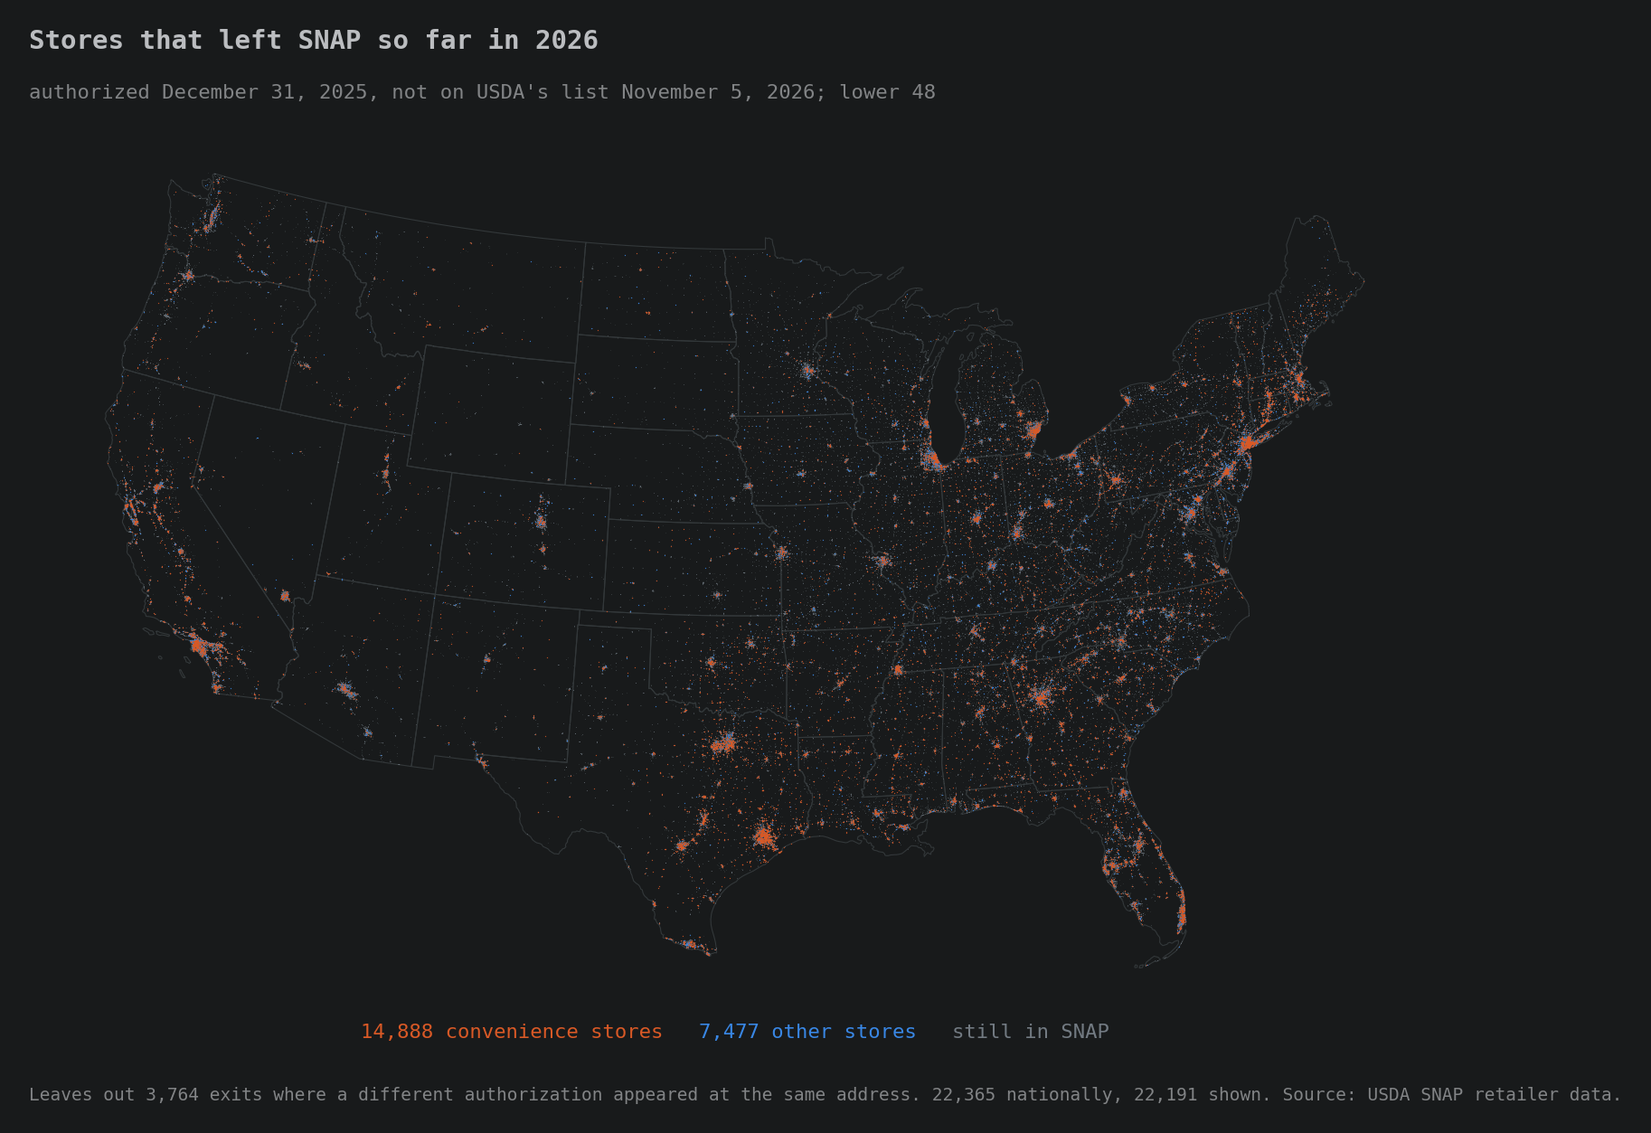
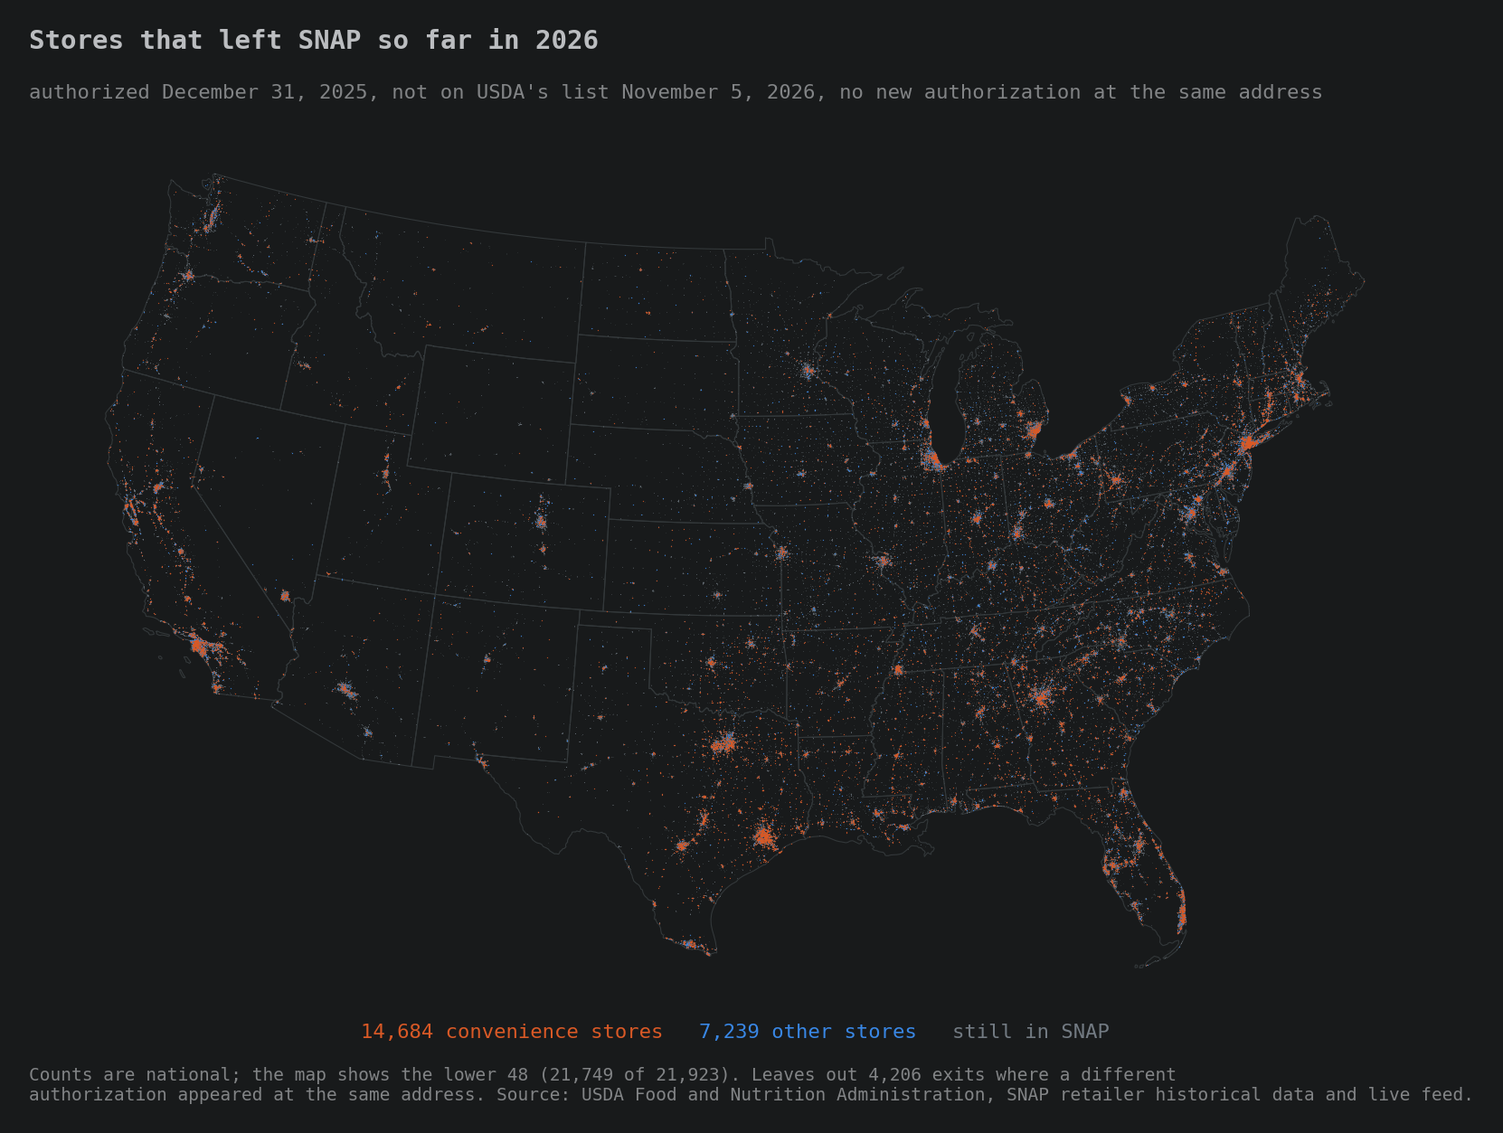
map: fix the ZIP leading-zero bug and the never-shown count found by the independent tie-out

diff --git a/web/index.html b/web/index.html
@@ -130,19 +130,20 @@
       <p class="note">
         A store appears in a year if it was authorized on <strong>Dec 31</strong> of that
         year. <span id="nShort">—</span> stores (<span id="pctShort">—</span>) opened and
-        closed between Dec 31sts and never appear. Stores without coordinates are excluded.
+        closed between two Dec 31sts and never appear. Stores without usable coordinates
+        are excluded.
       </p>
       <p class="note" id="liveNote" hidden>
         The last step, <strong data-live="label">—</strong>, is USDA's live retailer
         list as it stood that day, not a Dec 31 count. Stores already in the
         historical file keep their format there. The <span data-live="only">—</span>
-        stores that are new since then carry USDA's broader live types, so some
+        stores that are not in the historical file carry USDA's broader live types, so some
         groceries and specialty stores show as "size not given" or "type not
         given". Restaurant Meals Program sites and farmers-market entries that the
         historical file has never carried are left out.
       </p>
-      <p class="note">Source: USDA SNAP Retailer Locator Historical Data, 2005–2025,
-        and USDA's live SNAP retailer locator feed.</p>
+      <p class="note">Source: USDA Food and Nutrition Administration, SNAP Retailer
+        Locator Historical Data, 2005–2025, and the live SNAP retailer locator feed.</p>
     </details>
   </footer>
 

diff --git a/src/tieout_live.py b/src/tieout_live.py
@@ -26,17 +26,22 @@ ROWS = []
 WORDS = [
     ("Static map title: \"Stores that left SNAP so far in 2026\"",
      "Exit test in DATASETS.md, Dec 31, 2025 to Nov 5, 2026", "supported"),
-    ("Static map subtitle: \"authorized December 31, 2025, not on USDA's list November 5, 2026\"",
-     "Historical file end date; live feed dataLastEditDate 2026-11-05 21:00 UTC", "supported"),
-    ("Static map key: \"still in SNAP\"", "Ground layer is live_store rows kept on the map", "supported"),
+    ("Static map subtitle: \"authorized December 31, 2025, not on USDA's list November 5, 2026, no new authorization at the same address\"",
+     "Historical file end date; live feed dataLastEditDate 2026-11-05 21:00 UTC; address test in DATASETS.md", "supported"),
+    ("Static map key: \"still in SNAP\"", "Ground layer is the Nov 5, 2026 map step, defined in DATASETS.md", "supported"),
+    ("Static map note: \"Counts are national; the map shows the lower 48\"", "Shown count recomputed above", "supported"),
     ("Static map note: \"exits where a different authorization appeared at the same address\"",
      "Address test in DATASETS.md; recomputed above", "supported"),
-    ("Static map note: \"Source: USDA SNAP retailer data\"", "DATASETS.md, both USDA sections", "supported"),
+    ("Static map note: source credits USDA Food and Nutrition Administration, historical data and live feed",
+     "DATASETS.md credit lines", "supported"),
+    ("Map About note: \"N stores (P%) opened and closed between two Dec 31sts and never appear\"",
+     "Recomputed above from raw spells", "supported"),
+    ("Map About note: \"Stores without usable coordinates are excluded\"", "DATASETS.md missing and misplaced geocodes", "supported"),
     ("Map slider label: \"Nov 5, 2026\"", "Live feed refresh date", "supported"),
     ("Map About note: last step is USDA's live list that day, not a Dec 31 count",
      "DATASETS.md, live feed: no authorization dates, one-day list", "supported"),
     ("Map About note: matched stores keep their historical format", "load_live.py; DATASETS.md", "supported"),
-    ("Map About note: new stores carry USDA's broader live types, \"size not given\", \"type not given\"",
+    ("Map About note: stores not in the historical file carry USDA's broader live types, \"size not given\", \"type not given\"",
      "Live feed's 8 types; DATASETS.md mapping", "supported"),
     ("Map About note: Restaurant Meals sites and farmers-market entries the historical file never carried are left out",
      "Counts above (8,565 and 3,709); DATASETS.md", "supported"),
@@ -63,7 +68,8 @@ def main():
     h["auth"] = pd.to_datetime(h["Authorization Date"].str.strip(), format="%m/%d/%Y", errors="coerce")
     h["end"] = pd.to_datetime(h["End Date"].str.strip().replace("", None), format="%m/%d/%Y", errors="coerce")
     h["addr"] = (h["Street Number"].fillna("") + " " + h["Street Name"].fillna("")).map(norm)
-    h["zip5"] = h["Zip Code"].fillna("").str.strip().str[:5]
+    # The historical file drops leading zeros from ZIPs; the live feed does not.
+    h["zip5"] = h["Zip Code"].fillna("").str.strip().str[:5].str.zfill(5)
 
     with gzip.open(LIVE_DIR / f"snap-live-{snap}.csv.gz", "rt", encoding="utf-8") as fh:
         lv = pd.read_csv(fh, dtype=str)
@@ -97,6 +103,16 @@ def main():
     tie("Live-only stores on the map", meta["live"]["only_in_live"],
         int((~on_map["rid"].isin(hist_ids)).sum()), "map About note")
     tie("Slider label", "Nov 5, 2026", meta["labels"][-1], "map year label")
+    # Mappable historical stores on no Dec 31 2006-2025 and not in the feed.
+    on_any = set()
+    for y in range(2006, 2026):
+        on_any |= active(f"{y}-12-31")
+    never = mappable - on_any - set(on_map["rid"])
+    last_end = h.groupby("rid")["end"].max()
+    before = {r for r in never if pd.notna(last_end.get(r)) and last_end[r] < pd.Timestamp("2006-12-31")}
+    tie("Stores that opened and closed between Dec 31sts", meta["excluded_shortlived_count"],
+        len(never) - len(before), "map About note")
+    tie("Stores that left before Dec 31, 2006", meta["excluded_before_first"], len(before), "meta only")
     # Live-only: the live type, except a dollar-chain name becomes Dollar Store.
     from brands import normalize, resolve
     lo_conv = on_map[~on_map["rid"].isin(hist_ids) & on_map["Store_Type"].eq("Convenience Store")]

diff --git a/src/analysis/left_2026.py b/src/analysis/left_2026.py
@@ -30,6 +30,9 @@ BASELINE_YEARS = range(2019, 2026)
 
 NORM = "trim(regexp_replace(upper({}), '[^A-Z0-9]+', ' ', 'g'))"
 HIST_ADDR = NORM.format("coalesce(street_number,'') || ' ' || coalesce(street_name,'')")
+# The historical file stores ZIP as a number, so 02657 arrives as 2657 (48,748
+# stores, mostly New England and New Jersey). The live feed keeps all 5 digits.
+HIST_ZIP = "lpad(left(trim(d.zip_code), 5), 5, '0')"
 
 
 def active(d):
@@ -45,7 +48,7 @@ def run():
     con.execute(f"""
         CREATE TEMP TABLE base AS
         SELECT d.record_id, d.format, d.longitude, d.latitude,
-               {HIST_ADDR} AS addr, left(d.zip_code, 5) AS zip5
+               {HIST_ADDR} AS addr, {HIST_ZIP} AS zip5
         FROM dim_store d JOIN {active(BASE)} USING (record_id)
         WHERE d.mappable;
         -- New authorizations on the live date: not active on the base date, and
@@ -71,9 +74,9 @@ def run():
     for y in BASELINE_YEARS:
         a, b = date(y - 1, 12, 31), date(y, snap.month, snap.day)
         r = con.execute(f"""
-            WITH A AS (SELECT d.record_id, d.format, {HIST_ADDR} addr, left(d.zip_code,5) zip5
+            WITH A AS (SELECT d.record_id, d.format, {HIST_ADDR} addr, {HIST_ZIP} zip5
                        FROM dim_store d JOIN {active(a)} USING (record_id) WHERE d.mappable),
-                 B AS (SELECT d.record_id, {HIST_ADDR} addr, left(d.zip_code,5) zip5
+                 B AS (SELECT d.record_id, {HIST_ADDR} addr, {HIST_ZIP} zip5
                        FROM dim_store d JOIN {active(b)} USING (record_id)),
                  N AS (SELECT * FROM B WHERE record_id NOT IN (SELECT record_id FROM A)),
                  G AS (SELECT A.*, EXISTS (SELECT 1 FROM N WHERE N.addr = A.addr
@@ -129,10 +132,11 @@ def run():
         ]}],
         width=8.0,
         title="Stores that left SNAP so far in 2026",
-        subtitle=f"authorized December 31, 2025, not on USDA's list {label}; lower 48",
-        note=(f"Leaves out {tot['replaced']:,} exits where a different authorization appeared at the same "
-              f"address. {tot['left_not_replaced']:,} nationally, "
-              f"{len(p48):,} shown. Source: USDA SNAP retailer data."),
+        subtitle=(f"authorized December 31, 2025, not on USDA's list {label}, "
+                  "no new authorization at the same address"),
+        note=(f"Counts are national; the map shows the lower 48 ({len(p48):,} of {tot['left_not_replaced']:,}). "
+              f"Leaves out {tot['replaced']:,} exits where a different\nauthorization appeared at the same "
+              "address. Source: USDA Food and Nutrition Administration, SNAP retailer historical data and live feed."),
     )
     print(f"wrote {OUT_PNG}")
     print(f"  convenience: {conv['base']:,} on Dec 31, {conv['left']:,} left, "

diff --git a/src/export_map.py b/src/export_map.py
@@ -248,15 +248,28 @@ def export() -> None:
     # line was 38 stores out and the "never appear" figure was stale by a third.
     # Publishing them here means the copy is generated from the same pass that
     # builds the payload and cannot disagree with it.
+    # Counted over historical stores only: the live-only rows in df are not
+    # among the mappable dim_store stores, so subtracting len(df) would mix the
+    # two groups. A store that never appears either left SNAP before the first
+    # snapshot (Dec 31, 2006) or opened and closed between two Dec 31sts.
     mappable = int(con.execute(
         "SELECT count(*) FROM dim_store WHERE mappable").fetchone()[0])
-    never = mappable - len(df)
+    con.register("_shown", df[["record_id"]])
+    never_before, never_between = con.execute(f"""
+        WITH never AS (SELECT record_id FROM dim_store WHERE mappable
+                       AND record_id NOT IN (SELECT record_id FROM _shown))
+        SELECT count(*) FILTER (WHERE last_end < DATE '{HIST_YEARS[0]}-12-31'),
+               count(*) FILTER (WHERE last_end IS NULL OR last_end >= DATE '{HIST_YEARS[0]}-12-31')
+        FROM never JOIN (SELECT record_id, max(end_date) last_end FROM fact_spell
+                         GROUP BY 1) USING (record_id)""").fetchone()
+    never = never_between
 
     meta = {
         "count": len(df),
         "mappable": mappable,
         "excluded_shortlived_count": never,
         "excluded_shortlived_pct": round(100 * never / mappable, 1),
+        "excluded_before_first": never_before,
         "years": YEARS,
         # Display label per slider step: the year for Dec 31 snapshots, the full
         # date for the live one.

diff --git a/src/verify.py b/src/verify.py
@@ -97,8 +97,8 @@ def main():
     check("auth_date_unknown spells", q("SELECT count(*) FROM fact_spell WHERE auth_date_unknown"), 6_666)
     check("date_anomaly spells", q("SELECT count(*) FROM fact_spell WHERE date_anomaly"), 45)
     check("stores missing coordinates", q("SELECT count(*) FROM dim_store WHERE geocode_missing"), 4_542)
-    # Coordinates that land outside every US/territory box: 38 Guam stores
-    # geocoded to Jerusalem/France/the Philippines, a "China, Texas" Dollar
+    # Coordinates that land outside every US/territory box: 37 Guam stores
+    # geocoded to Israel/the Philippines/Mexico/Europe, a "China, Texas" Dollar
     # General placed in Tibet, and a California Big Lots in Venezuela.
     check("stores with off-world coordinates",
           q("SELECT count(*) FROM dim_store WHERE geocode_offshore"), 40)

diff --git a/src/config.py b/src/config.py
@@ -31,8 +31,8 @@ DATA_CUTOFF = date(2025, 12, 31)
 SENTINEL_AUTH_DATE = date(1930, 1, 1)
 
 # Boxes covering everywhere SNAP or NAP actually operates. A point outside all
-# of them is a geocoding failure, not a location: the file puts 38 Guam stores
-# in Jerusalem, France and the Philippines, a Dollar General in "China, Texas"
+# of them is a geocoding failure, not a location: the file puts 37 Guam stores
+# in Israel, the Philippines, Mexico and Europe, a Dollar General in "China, Texas"
 # in Tibet, and a Big Lots in Santa Margarita, California in Venezuela.
 IN_US_SQL = """(
    (longitude BETWEEN -125.1 AND -66.8  AND latitude BETWEEN  24.3 AND 49.5)

diff --git a/src/verify_map.py b/src/verify_map.py
@@ -45,7 +45,7 @@ def main():
 
     lon, lat = position[0::2], position[1::2]
     # Every point must land somewhere SNAP or NAP operates. The source geocodes
-    # 38 Guam stores into Jerusalem and the Philippines, a "China, Texas" Dollar
+    # 37 Guam stores into Israel, the Philippines, Mexico and Europe, a "China, Texas" Dollar
     # General into Tibet, and a California Big Lots into Venezuela.
     boxes = [(-125.1, -66.8, 24.3, 49.5), (-179.9, -129.0, 51.0, 71.5),
              (-160.5, -154.6, 18.8, 22.4), (-68.0, -64.5, 17.6, 18.6),

diff --git a/TIEOUT.md b/TIEOUT.md
@@ -10,17 +10,19 @@ Recomputed by `src/tieout_live.py` from `data/raw/hist.csv` and `data/raw/live/s
 | Stores on the map, Nov 5, 2026 | 235,892 | 235,892 | match | map count line |
 | Live-only stores on the map | 11,869 | 11,869 | match | map About note |
 | Slider label | Nov 5, 2026 | Nov 5, 2026 | match | map year label |
+| Stores that opened and closed between Dec 31sts | 14,520 | 14,520 | match | map About note |
+| Stores that left before Dec 31, 2006 | 31,135 | 31,135 | match | meta only |
 | Convenience stores on the map, Nov 5, 2026 | 108,075 | 108,075 | match | format panel |
 | Stores authorized Dec 31, 2025 (mappable) | 249,083 | 249,083 | match | left_2026.json |
 | Exits, all formats | 26,129 | 26,129 | match | left_2026.json |
-| Exits replaced at same address | 3,764 | 3,764 | match | static map note: 3,755 |
-| Exits not replaced, all formats | 22,365 | 22,365 | match | static map note: nationally |
+| Exits replaced at same address | 4,206 | 4,206 | match | static map note: 3,755 |
+| Exits not replaced, all formats | 21,923 | 21,923 | match | static map note: nationally |
 | Convenience stores, Dec 31, 2025 | 117,055 | 117,055 | match | left_2026.json |
 | Convenience exits | 17,131 | 17,131 | match | chat summary |
-| Convenience exits not replaced | 14,888 | 14,888 | match | static map key: convenience |
-| Other exits not replaced | 7,477 | 7,477 | match | static map key: other |
-| Exits shown in lower 48 | 22,191 | 22,191 | match | static map note: shown |
-| Convenience share not replaced, 2026 (%) | 12.7 | 12.7 | match | chat summary |
+| Convenience exits not replaced | 14,684 | 14,684 | match | static map key: convenience |
+| Other exits not replaced | 7,239 | 7,239 | match | static map key: other |
+| Exits shown in lower 48 | 21,749 | 21,749 | match | static map note: shown |
+| Convenience share not replaced, 2026 (%) | 12.5 | 12.5 | match | chat summary |
 | 2019 convenience exits not replaced | 9,293 | 9,293 | match | chat summary baseline |
 | 2020 convenience exits not replaced | 5,440 | 5,440 | match | chat summary baseline |
 | 2021 convenience exits not replaced | 7,466 | 7,466 | match | chat summary baseline |
@@ -34,13 +36,16 @@ Recomputed by `src/tieout_live.py` from `data/raw/hist.csv` and `data/raw/live/s
 | Text on the output | Source | Verdict |
 |---|---|---|
 | Static map title: "Stores that left SNAP so far in 2026" | Exit test in DATASETS.md, Dec 31, 2025 to Nov 5, 2026 | supported |
-| Static map subtitle: "authorized December 31, 2025, not on USDA's list November 5, 2026" | Historical file end date; live feed dataLastEditDate 2026-11-05 21:00 UTC | supported |
-| Static map key: "still in SNAP" | Ground layer is live_store rows kept on the map | supported |
+| Static map subtitle: "authorized December 31, 2025, not on USDA's list November 5, 2026, no new authorization at the same address" | Historical file end date; live feed dataLastEditDate 2026-11-05 21:00 UTC; address test in DATASETS.md | supported |
+| Static map key: "still in SNAP" | Ground layer is the Nov 5, 2026 map step, defined in DATASETS.md | supported |
+| Static map note: "Counts are national; the map shows the lower 48" | Shown count recomputed above | supported |
 | Static map note: "exits where a different authorization appeared at the same address" | Address test in DATASETS.md; recomputed above | supported |
-| Static map note: "Source: USDA SNAP retailer data" | DATASETS.md, both USDA sections | supported |
+| Static map note: source credits USDA Food and Nutrition Administration, historical data and live feed | DATASETS.md credit lines | supported |
+| Map About note: "N stores (P%) opened and closed between two Dec 31sts and never appear" | Recomputed above from raw spells | supported |
+| Map About note: "Stores without usable coordinates are excluded" | DATASETS.md missing and misplaced geocodes | supported |
 | Map slider label: "Nov 5, 2026" | Live feed refresh date | supported |
 | Map About note: last step is USDA's live list that day, not a Dec 31 count | DATASETS.md, live feed: no authorization dates, one-day list | supported |
 | Map About note: matched stores keep their historical format | load_live.py; DATASETS.md | supported |
-| Map About note: new stores carry USDA's broader live types, "size not given", "type not given" | Live feed's 8 types; DATASETS.md mapping | supported |
+| Map About note: stores not in the historical file carry USDA's broader live types, "size not given", "type not given" | Live feed's 8 types; DATASETS.md mapping | supported |
 | Map About note: Restaurant Meals sites and farmers-market entries the historical file never carried are left out | Counts above (8,565 and 3,709); DATASETS.md | supported |
 | Map subtitle: "Authorized retailers, 2006–2026" | Snapshots Dec 31, 2006 to Nov 5, 2026 | supported |

diff --git a/DATASETS.md b/DATASETS.md
@@ -41,9 +41,13 @@ in after the fact. We pin the 2005-2025 file.
 
 **Units and rounding.** Dates to the day. Coordinates in decimal degrees.
 
-**Known quirks.** 40 stores are geocoded outside the US (38 Guam stores in
-Jerusalem and the Philippines, a "China, Texas" Dollar General in Tibet) and 6
-fall in the wrong state. `mappable` excludes all three groups: 656,868 of
+**Known quirks.** 40 stores are geocoded outside the US (37 Guam stores placed
+in Israel, the Philippines, Mexico and Europe, a California Big Lots in
+Caracas, and a "China, Texas" Dollar General in Tibet) and 6 fall in the wrong
+state. ZIP codes are stored as numbers, so leading zeros are dropped: 48,413
+stores have 4-digit ZIPs and 335 have 3-digit ZIPs, mostly in New England, New
+Jersey and the Virgin Islands. We pad them back to 5 digits before comparing
+with the live feed. `mappable` excludes all three groups: 656,868 of
 661,456 stores. One address can carry many records at once (the West Side
 Market in Cleveland has 144), so we never deduplicate by address. An exit in
 this file is a lost authorization, not necessarily a store that closed.
@@ -113,12 +117,15 @@ Food and Nutrition Administration.
 
 ## How the two sources are combined
 
-**Map snapshot for November 5, 2026.** A store with a historical Record_ID keeps
+**Map snapshot for November 5, 2026.** This is also the "still in SNAP" layer
+under the static map of exits. A store with a historical Record_ID keeps
 that file's format, ownership, brand and coordinates. A live-only store gets its
 format from its live type: Convenience Store, Supermarket and Super Store map
 directly; Other maps to Combination Grocery/Other; Grocery Store becomes
 "Grocery (size not given)"; Specialty Store becomes "Specialty (type not
-given)". As in the historical file, a store whose name matches a dollar chain
+given)". The map note calls these stores "not in the historical file" rather
+than "new", because 2,273 of them carry IDs lower than the file's highest. As
+in the historical file, a store whose name matches a dollar chain
 becomes Dollar Store whatever its type. Ownership and brand come
 from `data/brands.csv`, as for every other store. An unresolved name counts as
 independent if 4 or fewer stores carry it, counting historical and live-only
@@ -131,7 +138,7 @@ mappable on December 31, 2025 and its Record_ID is nowhere in the November 5
 feed, under any type. If a store that was not authorized on December 31 shows
 up in the feed at the same street line and 5-digit ZIP (upper-cased, each run
 of punctuation or spaces collapsed to one space, ends trimmed, Restaurant Meals
-sites ignored), the exit counts as
+sites ignored, historical ZIPs padded to 5 digits), the exit counts as
 "replaced at the same address" and is not shown on the static map. The same
 test runs on the historical file for 2019 to 2025, from December 31 of the year
 before to November 5, so 2026 is compared with years measured the same way.

diff --git a/README.md b/README.md
@@ -39,7 +39,7 @@ Full notes on both, including their limits, are in [`DATASETS.md`](DATASETS.md).
 
 ## Stores that left SNAP in 2026
 
-Of 117,055 convenience stores authorized on December 31, 2025, 14,888 (12.7%)
+Of 117,055 convenience stores authorized on December 31, 2025, 14,684 (12.5%)
 were not on USDA's live list on November 5, 2026, leaving out exits where a
 different authorization appeared at the same address. Measured the same way
 from December 31 to November 5, the share in 2019 through 2025 ran from 5.0% to
@@ -124,8 +124,9 @@ category, not a chain-supermarket one.
   construction.
 - **Geocoding is not clean.** Three flags gate what is mappable:
   `geocode_missing` (4,542 with no coordinates), `geocode_offshore` (40 placed
-  outside the US entirely — 38 Guam stores in Jerusalem and the Philippines, a
-  "China, Texas" Dollar General in Tibet), and `state_mismatch` (6 inside the US
+  outside the US entirely — 37 Guam stores in Israel, the Philippines, Mexico
+  and Europe, a California Big Lots in Caracas, and a "China, Texas" Dollar
+  General in Tibet), and `state_mismatch` (6 inside the US
   but in the wrong state, like a Dime Box, Texas grocery in Pennsylvania). Use
   the `mappable` column — 656,868 of 661,456 stores.
 - **Do not deduplicate by address.** 145,993 addresses carry multiple records.

diff --git a/STATUS.md b/STATUS.md
@@ -30,3 +30,4 @@ None. No later step had been confirmed under this file.
 
 - 2026-11-09 Step 1 reopened (`/step back 1`). Reason: the stocking rule took effect November 4, 2026, and USDA's live retailer feed (refreshed November 5) is newer than the historical file, which ends December 31, 2025. Adding a November 5, 2026 layer to the map and a static map of stores that left SNAP in 2026.
 - 2026-11-09 Built the November 5, 2026 map step from the live feed (`fetch_live.py`, `load_live.py`, `export_map.py`) and the static map of 2026 exits (`analysis/left_2026.py`). Wrote `DATASETS.md`; own tie-out 24 of 24 in `TIEOUT.md`. Rebuilt `dist/snap-map.html` held back from git until Eric approves, because Pages serves it live.
+- 2026-11-09 Independent tie-out found: (1) historical ZIPs lose leading zeros, so the 2026 same-address test missed 442 replacements in New England, NJ and VI; fixed by padding, convenience exits not replaced 14,888 -> 14,684 (12.5%); (2) the map's "opened and closed between Dec 31sts" count mixed live-only stores in (33,786); now 14,520 (2.2%), and 31,135 more left before Dec 31, 2006; (3) the out-of-US geocode list was misdescribed (37 Guam, 1 Caracas, 1 Tibet); (4) wording on the static map and map note tightened. Own tie-out now 26 of 26.
